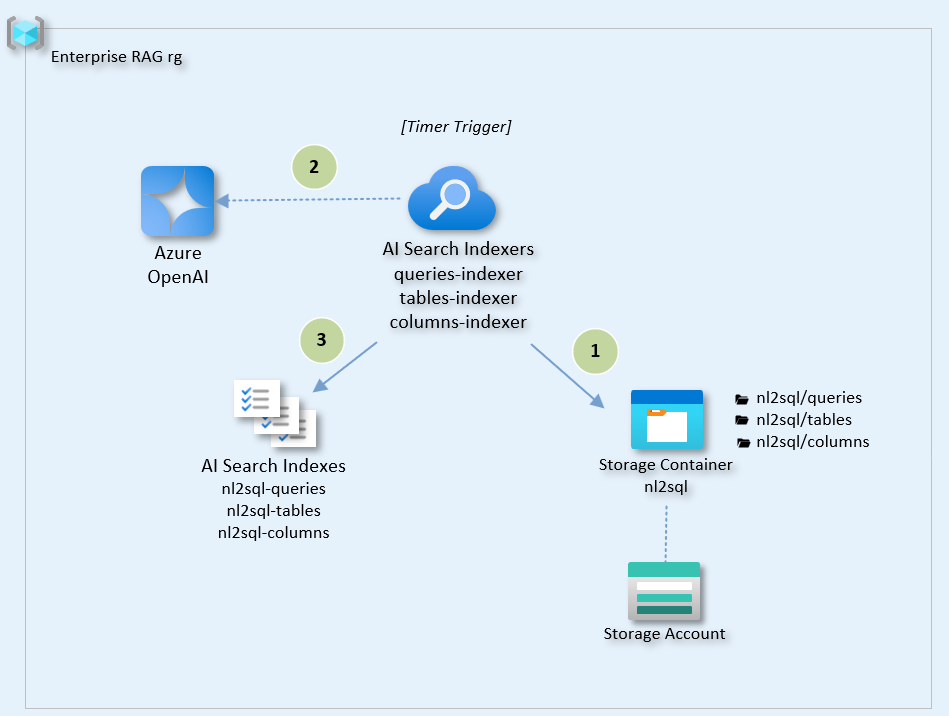
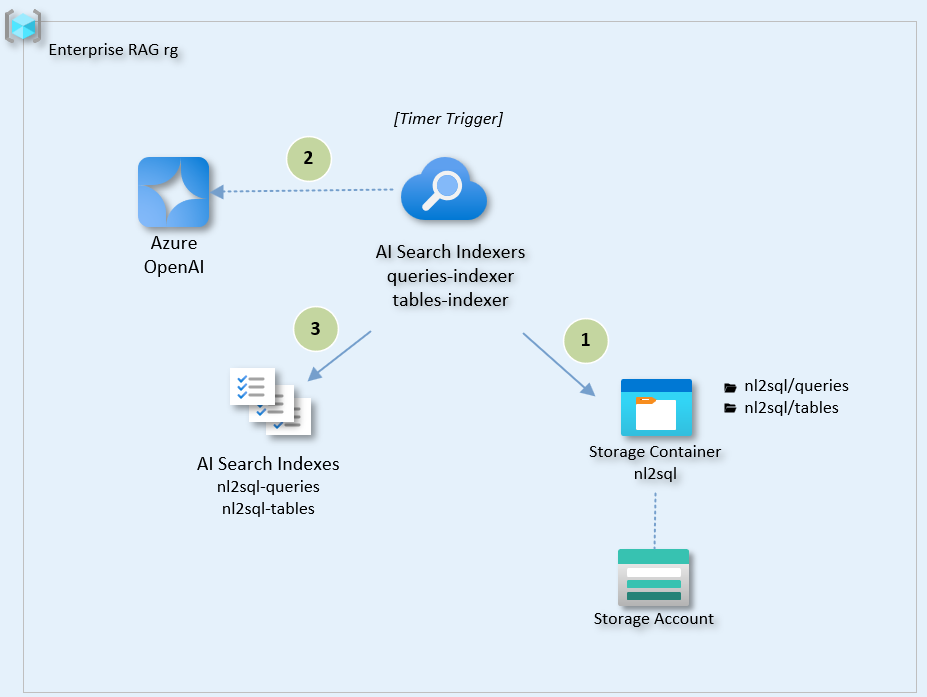
readme

diff --git a/README.md b/README.md
@@ -8,7 +8,7 @@ Part of [GPT-RAG](https://github.com/Azure/gpt-rag)
    - [1.1 Document Ingestion Process](#document-ingestion-process)
    - [1.2 Document Chunking Process](#document-chunking-process)
    - [1.3 Multimodal Ingestion](#multimodal-ingestion)
-   - [1.4 NL2SQL Data Ingestion](#nl2sql-ingestion-process)
+   - [1.4 NL2SQL and NL2DAX Data Ingestion](#nl2sql-and-nl2dax-ingestion-process)
    - [1.5 Sharepoint Indexing](#sharepoint-indexing)   
 2. [**How-to: Developer**](#how-to-developer)
    - [2.1 Redeploying the Ingestion Component](#redeploying-the-ingestion-component)
@@ -66,9 +66,9 @@ The chunking process is customizable. You can modify existing chunkers or create
 
 This repository supports image ingestion for a multimodal RAG scenario. For an overview of how multimodality is implemented in GPT-RAG, see [Multimodal RAG Overview](https://github.com/Azure/GPT-RAG/blob/main/docs/MULTIMODAL_RAG.md).
 
-To enable multimodal ingestion, set the `MULTIMODALITY` environment variable to `true` before starting to index your data.
+To enable multimodal ingestion, set the `MULTIMODAL` environment variable to `true` before starting to index your data.
 
-When `MULTIMODALITY` is set to `true`, the data ingestion pipeline extends its capabilities to handle both text and images within your source documents, using the `MultimodalChunker`. Below is an overview of how this **multimodal ingestion process** works, including image extraction, captioning, and cleanup.
+When `MULTIMODAL` is set to `true`, the data ingestion pipeline extends its capabilities to handle both text and images within your source documents, using the `MultimodalChunker`. Below is an overview of how this **multimodal ingestion process** works, including image extraction, captioning, and cleanup.
 
 1. **Thresholded Image Extraction**  
    - The system uses **Document Intelligence** to parse each document, detecting text elements as well as embedded images. This approach **extends** the standard `DocAnalysisChunker` by adding **image extraction** steps on top of the usual text-based process.
@@ -92,58 +92,174 @@ When `MULTIMODALITY` is set to `true`, the data ingestion pipeline extends its c
    - A dedicated **purging process** periodically checks the `documents-images` container and removes any images **no longer referenced** in the AI Search Index.  
    - This ensures storage is kept in sync with ingested content, avoiding orphaned or stale images that are no longer needed.
 
-By activating `MULTIMODALITY`, your ingestion process captures both text and visuals in a single workflow, providing a richer knowledge base for Retrieval Augmented Generation scenarios. Queries can match not just textual content but also relevant image captions, retrieving valuable visual context stored in `documents-images`.
+By activating `MULTIMODAL`, your ingestion process captures both text and visuals in a single workflow, providing a richer knowledge base for Retrieval Augmented Generation scenarios. Queries can match not just textual content but also relevant image captions, retrieving valuable visual context stored in `documents-images`.
 
-### NL2SQL Ingestion Process
+### NL2SQL and NL2DAX Ingestion Process
 
-If you are using the **few-shot** or **few-shot scaled** NL2SQL strategies in your orchestration component, you may want to index NL2SQL content for use during the retrieval step. The idea is that this content will aid in SQL query creation with these strategies. More details about these NL2SQL strategies can be found in the [orchestrator repository](https://github.com/azure/gpt-rag-agentic).
+If you are using NL2SQL or Chat with Fabric Data strategies in your orchestration component, you need to index some metadata. Additionally, you can index sample query content to assist with retrieval during query generation. This indexed content helps generate SQL and DAX queries more effectively using these strategies. More details about agentic strategies can be found in the [orchestrator repository](https://github.com/azure/gpt-rag-agentic).
 
-> [!Note]  
-> This also applies to the agentic strategy for Fabric. For Fabric, the query can be written in either DAX or SQL, depending on the type of data source (Semantic Model or SQL Endpoint, respectively) defined in the orchestration configuration.
 
-The Ingestion Process indexes three content types:
+The ingestion process indexes three types of content:
 
-- **query**: Examples of queries for both **few-shot** and **few-shot scaled** strategies.
-- **table**: Descriptions of tables for the **few-shot scaled** scenario.
-- **column**: Descriptions of columns for the **few-shot scaled** scenario.
+- **query**: Sample queries used for few-shot learning by the orchestrator (optional).
+- **table**: Descriptions of tables and their columns, serving as a data dictionary.
+- **measure**: Definitions of measures, including name, description, data type, and source information, to help the orchestrator select appropriate measures for calculations.
 
-> [!NOTE] 
-> If you are using the **few-shot** strategy, you will only need to index queries.
+Each item—query, table, or measure—is represented as a JSON file with specific attributes. JSON files should be stored in the `queries`, `tables`, and `measures` folders inside the `nl2sql` container in the solution's storage account.
 
-Each item—whether a query, table, or column—is represented in a JSON file with information specific to the query, table, or column, respectively.
+The diagram below illustrates the NL2SQL data ingestion pipeline:
 
-Here’s an example of a query file:
+![NL2SQL Ingestion Pipeline](media/nl2sql_ingestion_pipeline.png)  
+*NL2SQL Ingestion Pipeline*
+
+### Tables
+
+Here’s an example of a table metadata file:
+
+```json
+{
+    "table": "dimension_city",
+    "description": "City dimension table containing details of locations associated with sales and customers.",
+    "datasource": "wwi-sales-star-schema",
+    "columns": [
+        {
+            "name": "CityKey",
+            "description": "Primary key for city records."
+        },
+        {
+            "name": "WWICityID",
+            "description": "Identifier for the city in the worldwide database."
+        },
+        {
+            "name": "City",
+            "description": "Name of the city."
+        },
+        {
+            "name": "StateProvince",
+            "description": "State or province where the city is located."
+        },
+        {
+            "name": "Country",
+            "description": "Country where the city is located."
+        }
+    ]
+}
+```
+
+### Queries
+
+Here’s an example of an SQL query file:
 
 ```json
 {
    "datasource": "adventureworks",
    "question": "What are the top 5 most expensive products currently available for sale?",
     "query": "SELECT TOP 5 ProductID, Name, ListPrice FROM SalesLT.Product WHERE SellEndDate IS NULL ORDER BY ListPrice DESC",
-    "selected_tables": [
-        "SalesLT.Product"
-    ],
-    "selected_columns": [
-        "SalesLT.Product-ProductID",
-        "SalesLT.Product-Name",
-        "SalesLT.Product-ListPrice",
-        "SalesLT.Product-SellEndDate"
-    ],
     "reasoning": "This query retrieves the top 5 products with the highest selling prices that are currently available for sale. It uses the SalesLT.Product table, selects relevant columns, and filters out products that are no longer available by checking that SellEndDate is NULL."
 }
 ```
 
-In the [**nl2sql**](samples/nl2sql) directory of this repository, you can find additional examples of queries, tables, and columns for the following Adventure Works sample SQL Database tables.
+Here’s an example of a DAX query:
+
+```json
+{
+    "datasource": "wwi-sales-aggregated-data",
+    "question": "Who are the top 5 employees with the highest total sales including tax?",
+    "query": "EVALUATE TOPN(5, SUMMARIZE(aggregate_sale_by_date_employee, aggregate_sale_by_date_employee[Employee], aggregate_sale_by_date_employee[SumOfTotalIncludingTax]), aggregate_sale_by_date_employee[SumOfTotalIncludingTax], DESC)",
+    "reasoning": "This DAX query identifies the top 5 employees based on the total sales amount including tax. It leverages the aggregate_sale_by_date_employee table, aggregates the sales data by employee, and orders the results to display the highest earners first."
+}
+```
+
+#### Measures
+
+When indexing measures, the input JSON should have the following attributes:
+
+- **name:** The name of the measure.
+- **description:** A brief description of the measure.
+- **datasource:** The datasource where the measure resides.
+- **type:** The type of the measure ("external" or "local").
+- **source_table:** The source table associated with the local measure.
+- **data_type:** The data type of the measure.
+- **source_model:** The source model for the measure.
+
+**Example of an External Measure JSON:**
+```json
+{
+  "datasource": "Ecommerce",
+  "name": "Total Revenue (%)",
+  "description": "Calculates the percentage of total revenue for the selected period.",
+  "type": "external",
+  "source_table": "",
+  "data_type": "CURRENCY",
+  "source_model": "Executive Sales Dashboard"
+}
+```
+
+Additional examples of queries and tables can be found in the [**samples**](samples) directory of this repository.
+
+SQL Database examples are based on the [Adventure Works sample SQL Database](https://learn.microsoft.com/en-us/sql/samples/adventureworks-install-configure?view=sql-server-ver16&tabs=ssms#deploy-to-azure-sql-database), which you can install in an Azure SQL Database.
 
 ![Document Ingestion Pipeline](media/nl2sql_adventure_works.png)  
 *Sample Adventure Works Database Tables*
 
-> [!NOTE]  
-> You can deploy this sample database in your [Azure SQL Database](https://learn.microsoft.com/en-us/sql/samples/adventureworks-install-configure?view=sql-server-ver16&tabs=ssms#deploy-to-azure-sql-database).
+Fabric-based examples use the fictional Wide World Importers company Lakehouse and a semantic model generated using this [tutorial](https://learn.microsoft.com/en-us/fabric/data-engineering/tutorial-lakehouse-introduction).
 
-The diagram below illustrates the NL2SQL data ingestion pipeline.
+### Datasources
 
-![NL2SQL Ingestion Pipeline](media/nl2sql_ingestion_pipeline.png)  
-*NL2SQL Ingestion Pipeline*
+Every JSON file, whether describing a query or a table, contains a **datasource** field. This field represents the **datasource ID**, which is an internal identifier used by GPT-RAG to manage multiple data sources.
+
+The datasource information is stored as a JSON document in the `datasources` container within CosmosDB, used by GPT-RAG. This document contains relevant details about the specific datasource, including its type and connection details.
+
+![Document Ingestion Pipeline](media/nl2sql_datasources.png)  
+*Example of Datasources in CosmosDB*
+
+Currently, there are three types of datasources:
+
+1. **Semantic Model**  
+2. **SQL Endpoint**  
+3. **SQL Database**  
+
+The first two are designed for Fabric, where the orchestrator connects to the datasource using a Service Principal/App Registration. For SQL Database connections, Managed Identity is used. Instructions on configuring connections for Fabric and SQL Database can be found in the **administration guide** in the main GPT-RAG repository.
+
+Below are examples of different types of datasource configurations:
+
+#### **Semantic Model Datasource**
+```json
+{
+    "id": "wwi-sales-aggregated-data",    
+    "description": "This data source is a semantic model containing aggregated sales data. It is ideal for insights such as sales by employee or city.",
+    "type": "semantic_model",
+    "organization": "myorg",
+    "dataset": "your_dataset_or_semantic_model_name",
+    "tenant_id": "your_sp_tenant_id",
+    "client_id": "your_sp_client_id"    
+}
+```
+
+#### **SQL Endpoint Datasource**
+```json
+{
+    "id": "wwi-sales-star-schema",
+    "description": "This data source is a star schema that organizes sales data. It includes a fact table for sales and dimension tables such as city, customer, and inventory items (products).",
+    "type": "sql_endpoint",
+    "organization": "myorg",
+    "server": "your_sql_endpoint. Ex: xpto.datawarehouse.fabric.microsoft.com",
+    "database": "your_lakehouse_name",
+    "tenant_id": "your_sp_tenant_id",
+    "client_id": "your_sp_client_id"
+}
+```
+
+#### **SQL Database Datasource**
+```json
+{
+    "id": "adventureworks",
+    "description": "AdventureWorksLT is a database featuring a schema with tables for customers, orders, products, and sales.",
+    "type": "sql_database",
+    "database": "adventureworkslt",
+    "server": "sqlservername.database.windows.net"
+}
+```
 
 **Workflow**
 
